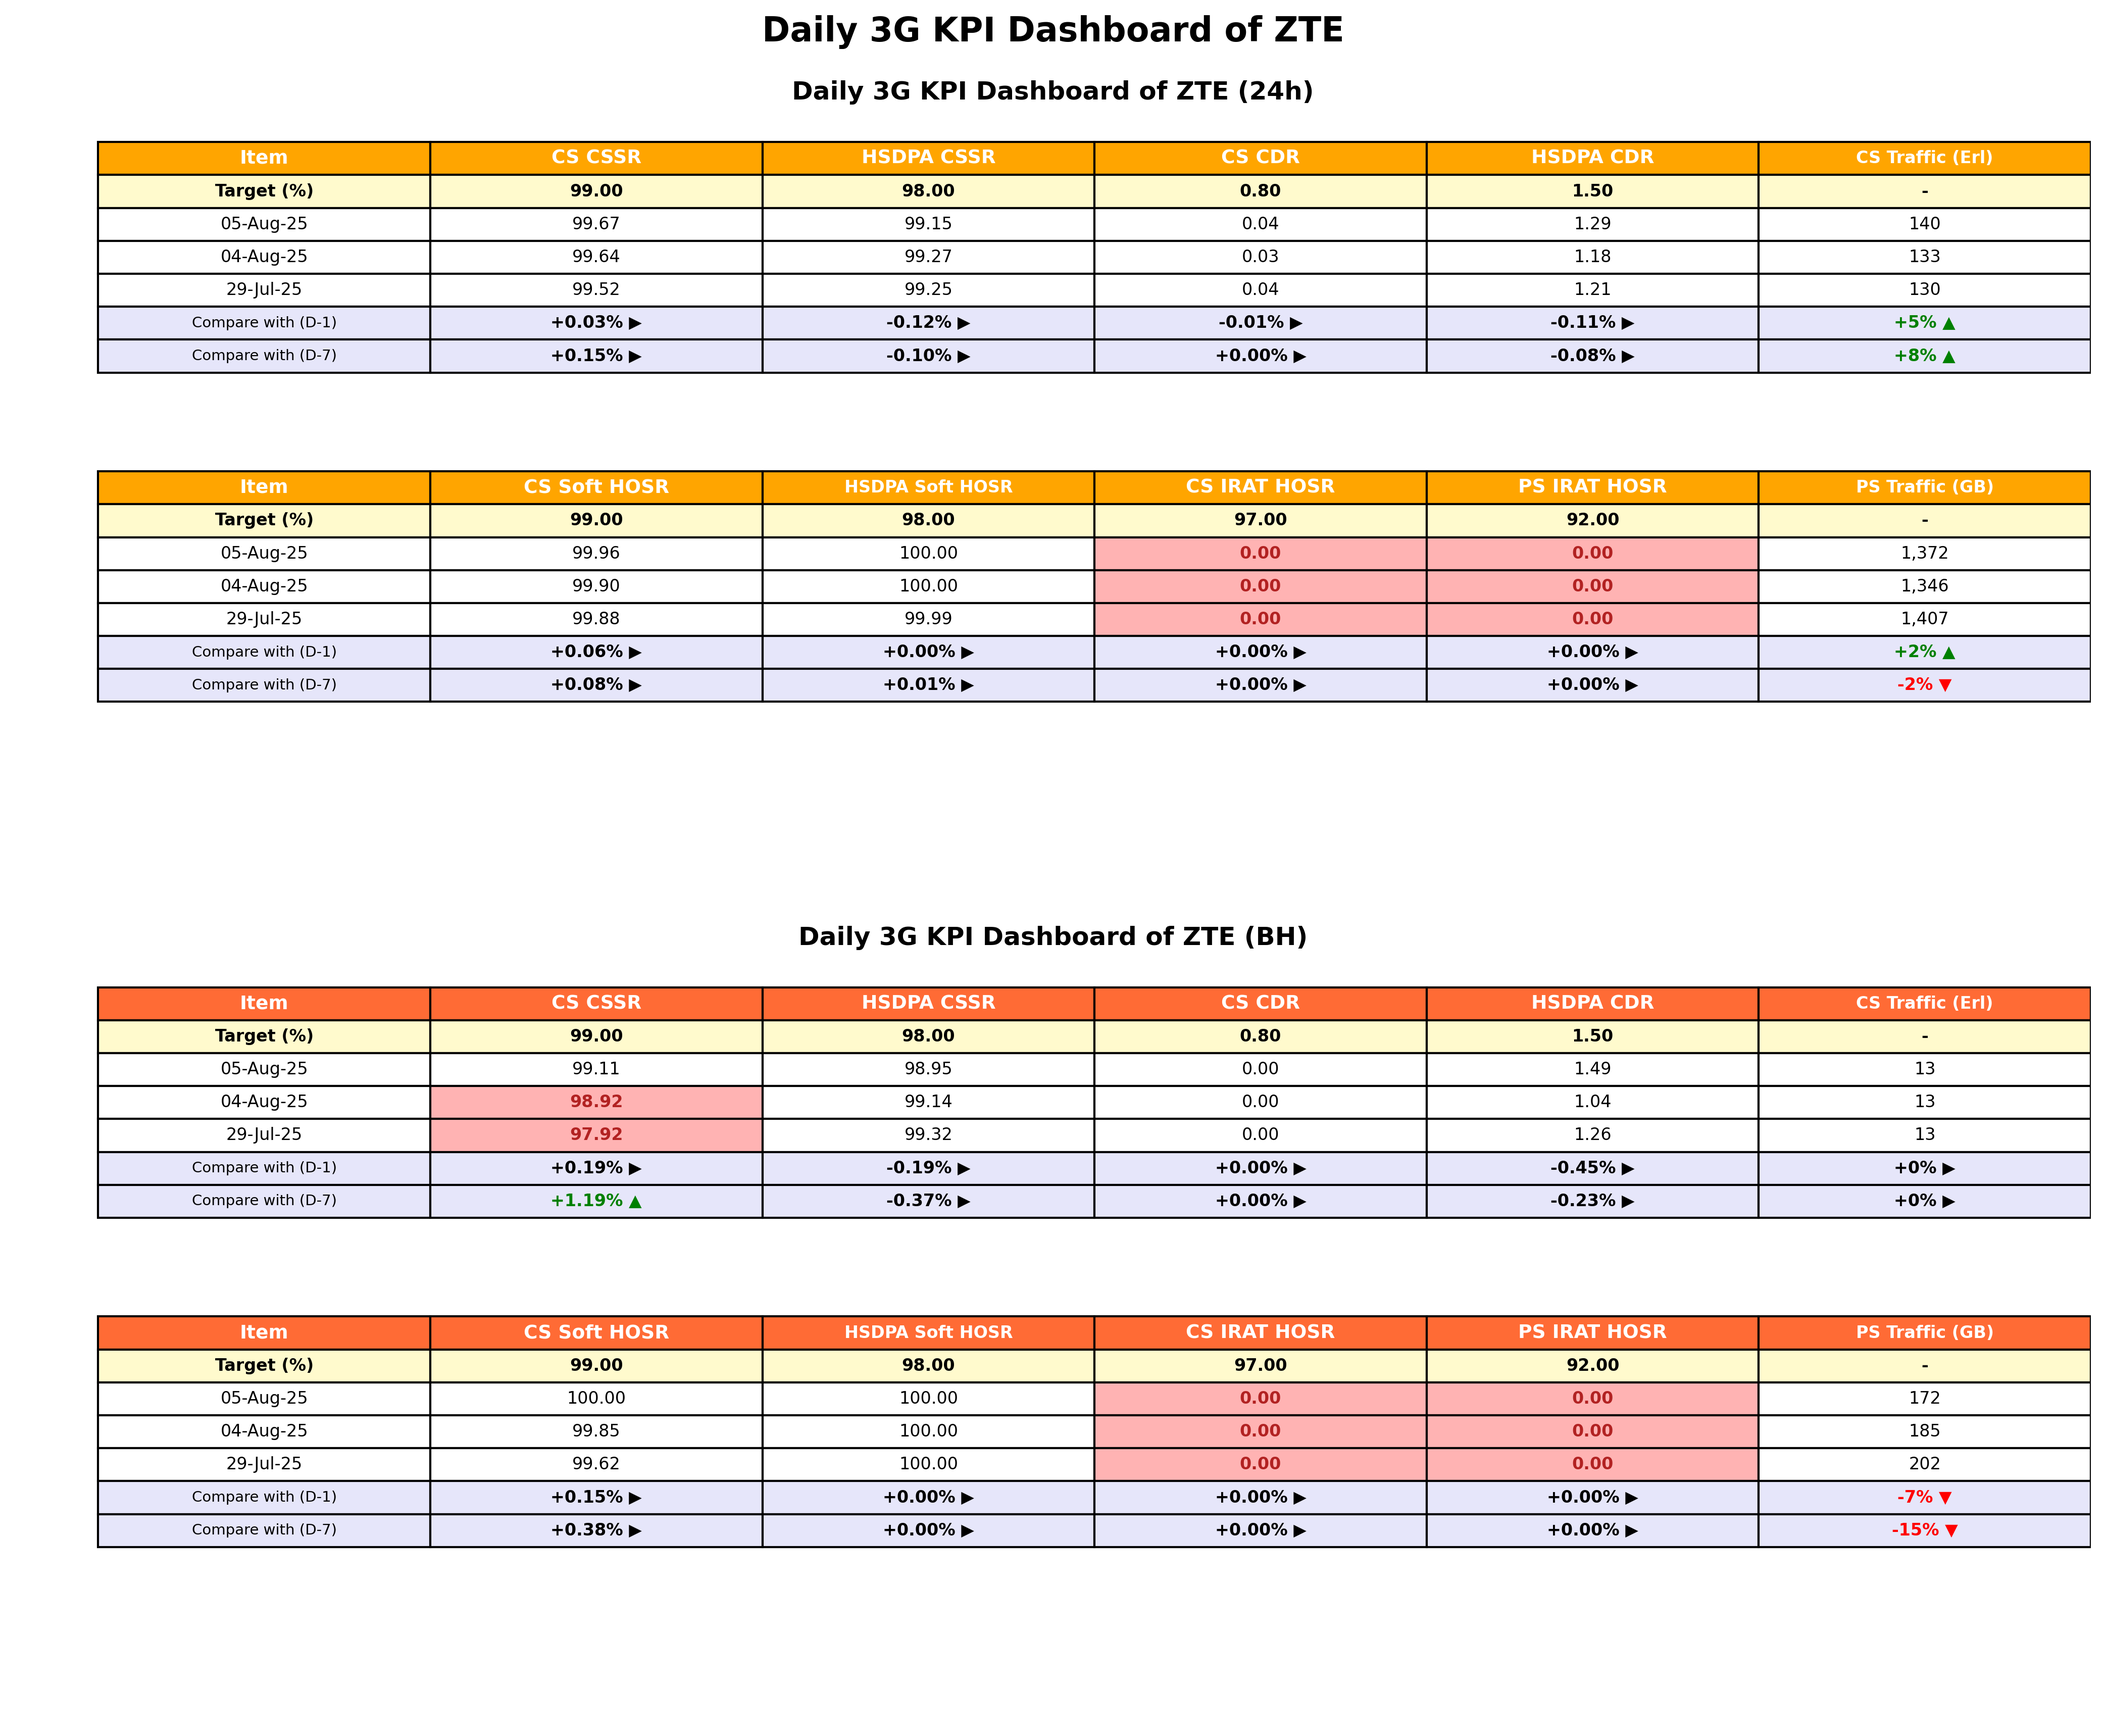
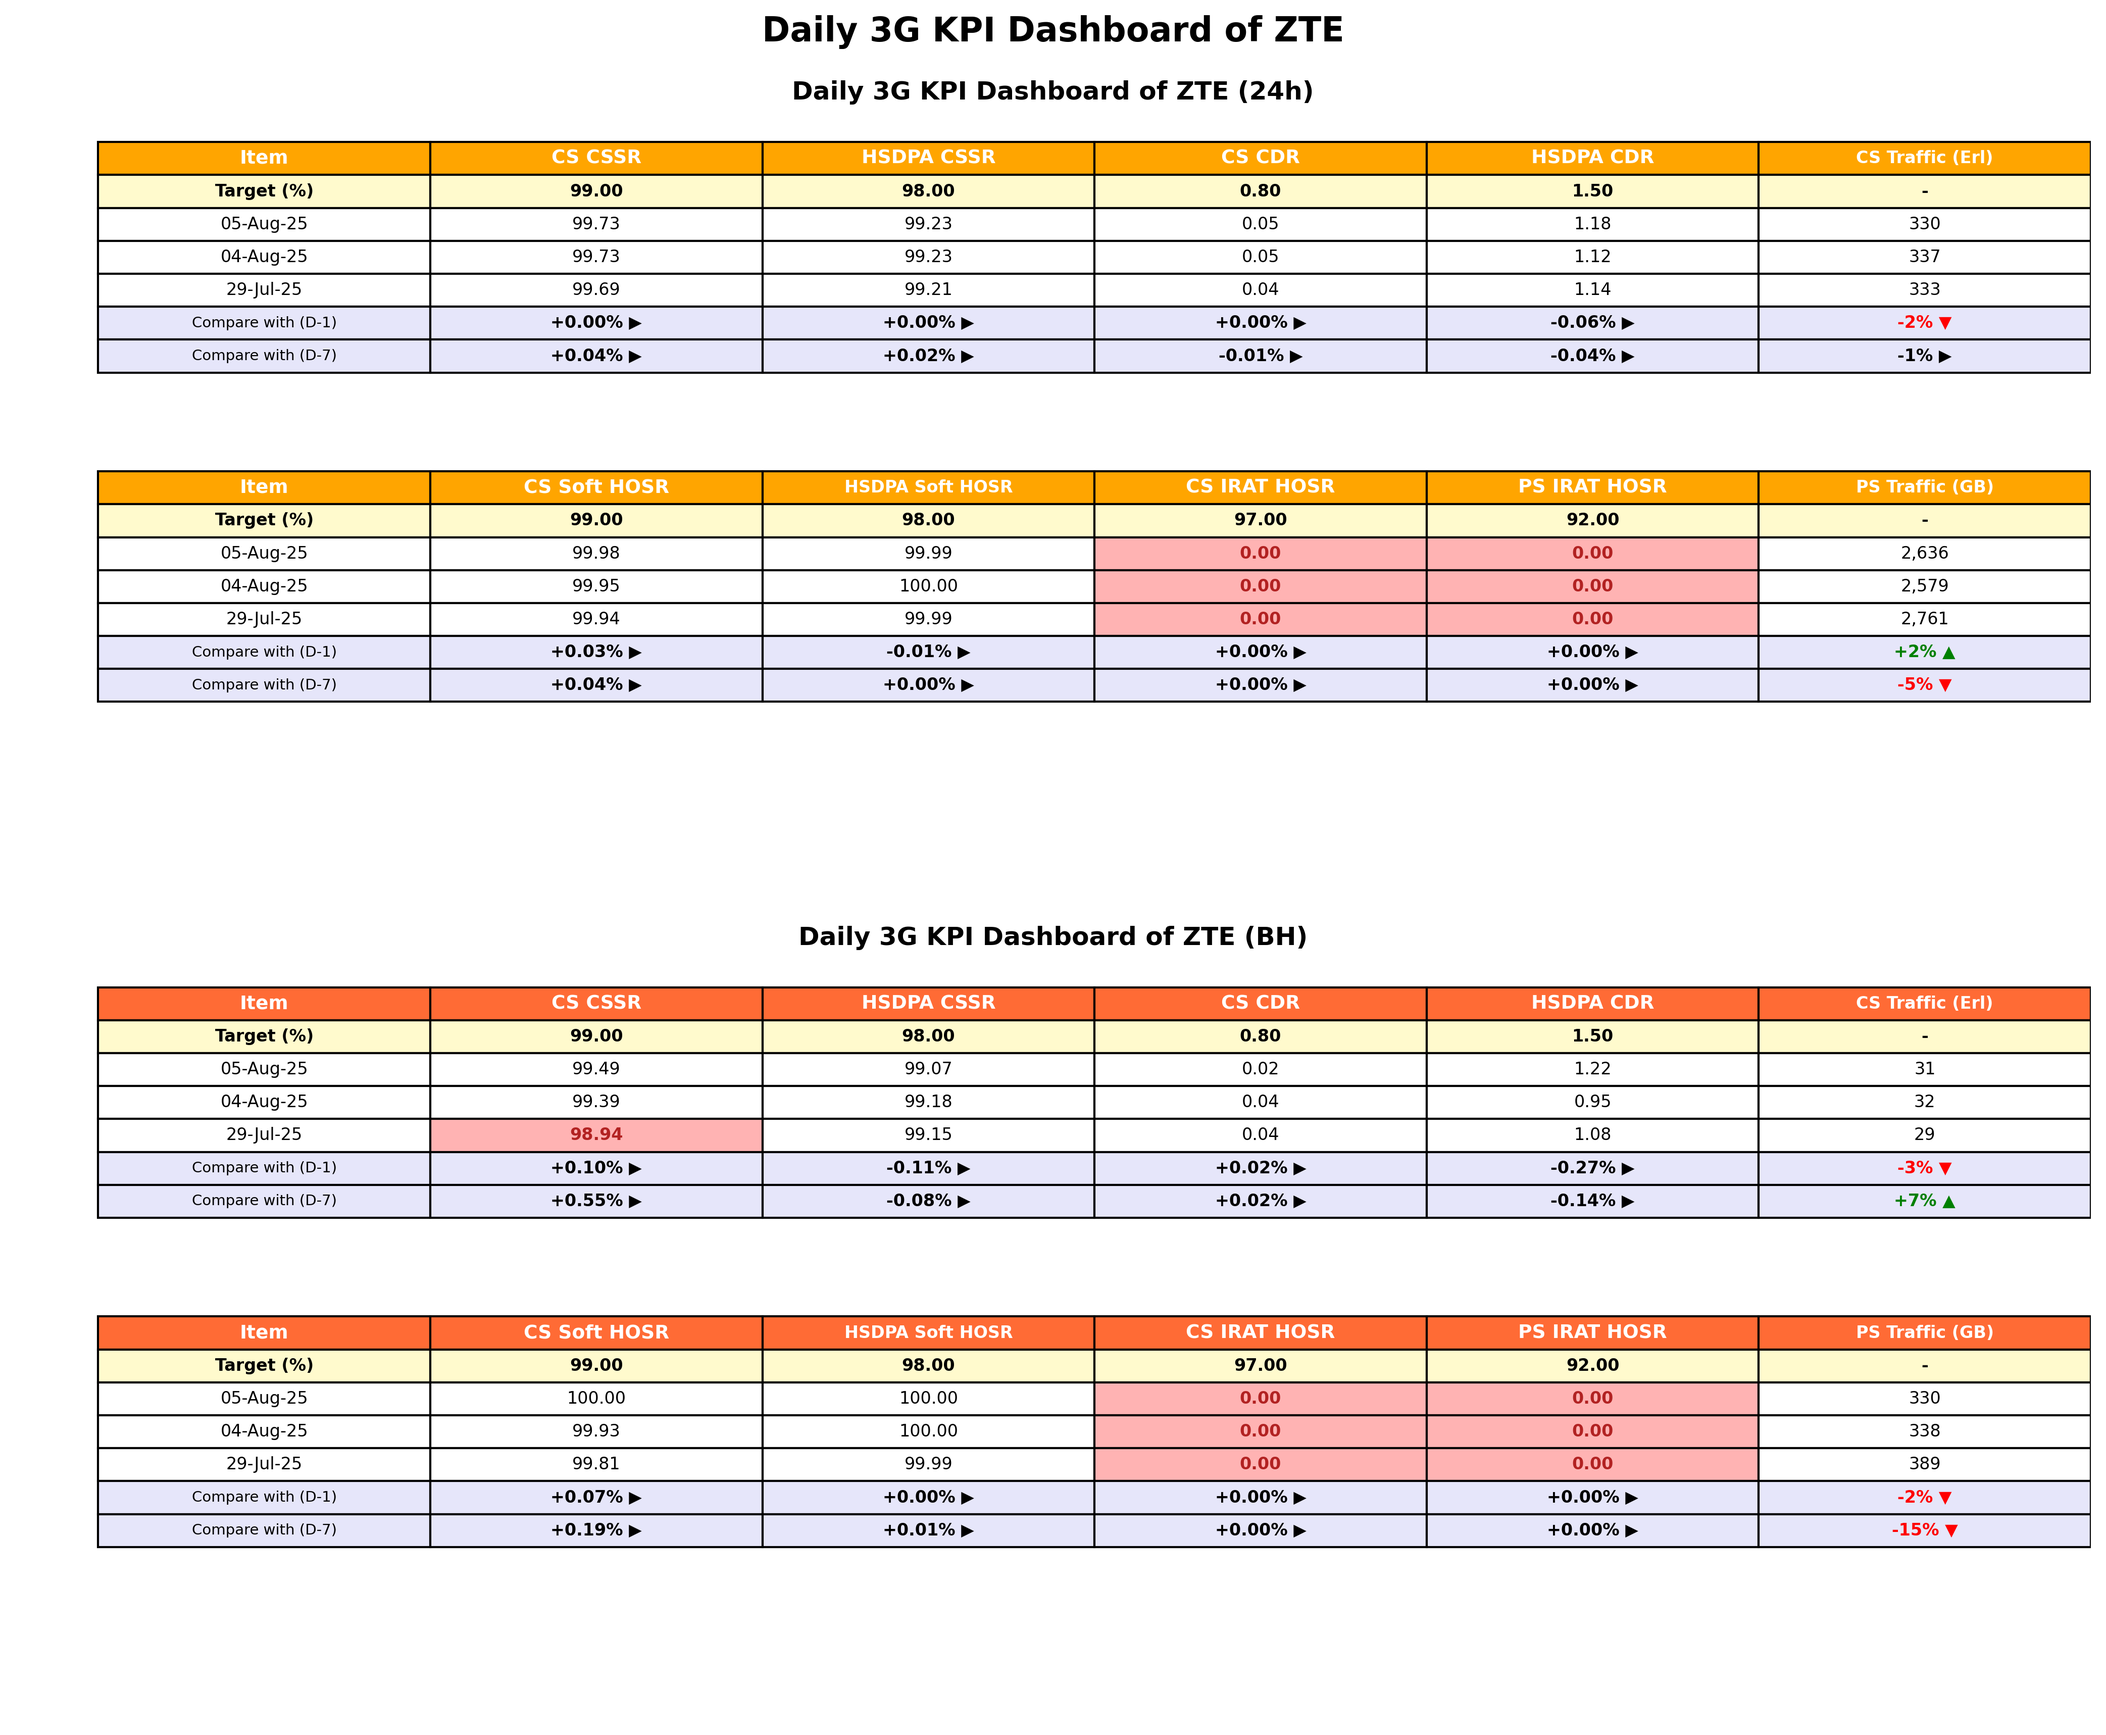
create calculate_delta_d_7 function and update other function

diff --git a/3G/3GKPIDashboardByRNC.py b/3G/3GKPIDashboardByRNC.py
@@ -12,6 +12,8 @@ import warnings
 warnings.filterwarnings('ignore')
 plt.rcParams['font.family'] = ['DejaVu Sans', 'Arial', 'sans-serif']
 plt.rcParams['axes.unicode_minus'] = False
+plt.style.use('default')
+sns.set_palette("husl")
 
 class Enhanced3GDashboard:
     def __init__(self, csv_folder_path=None, csv_files_list=None):
@@ -263,8 +265,8 @@ class Enhanced3GDashboard:
                         rnc_list.append(rnc_str)
 
             # Prioritize HNRZ01 if it exists
-            if any('HNRZ01' in rnc for rnc in rnc_list):
-                hnrz01_entries = [rnc for rnc in rnc_list if 'HNRZ01' in rnc]
+            if any('HNRZ01(101)' in rnc for rnc in rnc_list):
+                hnrz01_entries = [rnc for rnc in rnc_list if 'HNRZ01(101)' in rnc]
                 return hnrz01_entries[:1]  # Take first HNRZ01 entry
 
             return rnc_list[:1] if rnc_list else []
@@ -323,61 +325,75 @@ class Enhanced3GDashboard:
 
         return values
 
-    def calculate_delta(self, current_val, previous_val, kpi_list):
-        """Calculate percentage change"""
+    def calculate_delta_d_1(self, current_val, previous_val, kpi_name=None):
         if pd.isna(current_val) or pd.isna(previous_val) or previous_val == 0:
-            diff = 0
-        for kpi_name in kpi_list:
-            if kpi_name in ['CS CDR (%)', 'HSDPA CDR (%)']:
-                # For CDR, lower is better, so reverse the calculation
-                diff = ((previous_val - current_val) / previous_val) * 100
-            else:
-                diff = ((current_val - previous_val) / previous_val) * 100
+            return 0
+
+        # For CDR (Call Drop Rate), lower is better, so reverse the calculation
+        if kpi_name and 'CDR' in kpi_name:
+            diff = ((previous_val - current_val) / previous_val) * 100
+        else:
+            diff = ((current_val - previous_val) / (100 - current_val)) * 100
+
+        return diff
+    def calculate_delta_d_7(self, current_val, previous_val, kpi_name=None):
+        if pd.isna(current_val) or pd.isna(previous_val) or previous_val == 0:
+            return 0
+
+        # For CDR (Call Drop Rate), lower is better, so reverse the calculation
+        if kpi_name and 'CDR' in kpi_name:
+            diff = ((previous_val - current_val) / previous_val) * 100
+        else:
+            diff = ((current_val - previous_val) / (100 - previous_val)) * 100
+
         return diff
 
     def get_color_for_delta(self, delta, kpi_name=""):
         """Get color based on delta value and KPI type"""
-        if abs(delta) < 0.1:  # Minimal change
+        temp = delta / 100
+        if temp >= -0.3 and temp < 0.3  :  # Minimal change
             return '#FFFF99'  # Light yellow
 
         # For CDR (Call Drop Rate), lower is better
         is_lower_better = 'CDR' in kpi_name
 
         if is_lower_better:
-            if delta < 0:  # Improvement (decrease in CDR)
+            if temp > 0.3:  # Improvement (decrease in CDR)
                 return '#90EE90'  # Light green
             else:  # Degradation (increase in CDR)
                 return '#FFB6C1'  # Light red
         else:
-            if delta > 0:  # Improvement
+            if temp > 0.3:  # Improvement
                 return '#90EE90'  # Light green
             else:  # Degradation
                 return '#FFB6C1'  # Light red
 
     def format_delta(self, delta):
         """Alternative format using more compatible symbols"""
-        if abs(delta) < 0.1:
-            return "- 0%"
-        elif delta > 0:
+        temp = delta / 100
+        if temp >= -0.3 and temp < 0.3:
+            return f"► {delta:.2f}%"
+        elif temp >= 0.3:
             return f"▲ +{delta:.2f}%"  # Triangle up
         else:
             return f"▼ {delta:.2f}%"  # Triangle down
 
     def get_delta_text_color(self, delta, kpi_name=""):
+        temp = delta / 100
         """Get text color for delta based on delta value and KPI type"""
-        if abs(delta) < 0.1:  # Minimal change
+        if temp >= -0.3 and temp < 0.3 :  # Minimal change
             return '#000000'  # Màu đen cho mũi tên ngang
 
         # For CDR (Call Drop Rate), lower is better
         is_lower_better = 'CDR' in kpi_name
 
         if is_lower_better:
-            if delta < 0:  # Improvement (decrease in CDR) - màu xanh lá
+            if temp >= 0.3:  # Improvement (decrease in CDR) - màu xanh lá
                 return '#2E7D32'  # Xanh lá đậm
             else:  # Degradation (increase in CDR) - màu đỏ
                 return '#C62828'  # Đỏ đậm
         else:
-            if delta > 0:  # Improvement - màu xanh lá
+            if temp >= 0.3:  # Improvement - màu xanh lá
                 return '#2E7D32'  # Xanh lá đậm
             else:  # Degradation - màu đỏ
                 return '#C62828'  # Đỏ đậm
@@ -508,8 +524,12 @@ class Enhanced3GDashboard:
         latest_values, second_values, week_values = date_data
 
         # Calculate deltas
-        delta_d1_values = [self.calculate_delta(latest_values[i], second_values[i]) for i in range(len(latest_values))]
-        delta_d7_values = [self.calculate_delta(latest_values[i], week_values[i]) for i in range(len(latest_values))]
+        # delta_d1_values = [self.calculate_delta(latest_values[i], second_values[i]) for i in range(len(latest_values))]
+        # delta_d7_values = [self.calculate_delta(latest_values[i], week_values[i]) for i in range(len(latest_values))]
+        delta_d1_values = [self.calculate_delta_d_1(latest_values[i], second_values[i], kpi_name) for i in
+                           range(len(latest_values))]
+        delta_d7_values = [self.calculate_delta_d_7(latest_values[i], week_values[i], kpi_name) for i in
+                           range(len(latest_values))]
 
         # Use consistent header position
         header_y = 0.85  # Same as header position
@@ -664,7 +684,7 @@ def create_dashboard_from_folder(folder_path, title="Daily 3G KPI Dashboard", ti
         save_path = None
         if save_png:
             save_path = os.path.join(folder_path,
-                                     f"3G_KPI_Dashboard_{time_period}_{datetime.now().strftime('%Y%m%d_%H%M%S')}.png")
+                                     f"3G_KPI_Dashboard_{time_period}_{datetime.now().strftime('%Y%m%d')}.png")
 
         fig = dashboard.create_dashboard(title=title, time_period=time_period, save_path=save_path)
         return fig
@@ -683,7 +703,7 @@ def create_dashboard_from_files(csv_files_list, title="Daily 3G KPI Dashboard", 
         save_path = None
         if save_png:
             save_path = os.path.join(output_dir,
-                                     f"3G_KPI_Dashboard_{time_period}_{datetime.now().strftime('%Y%m%d_%H%M%S')}.png")
+                                     f"3G_KPI_Dashboard_{time_period}_{datetime.now().strftime('%Y%m%d')}.png")
 
         fig = dashboard.create_dashboard(title=title, time_period=time_period, save_path=save_path)
         return fig
